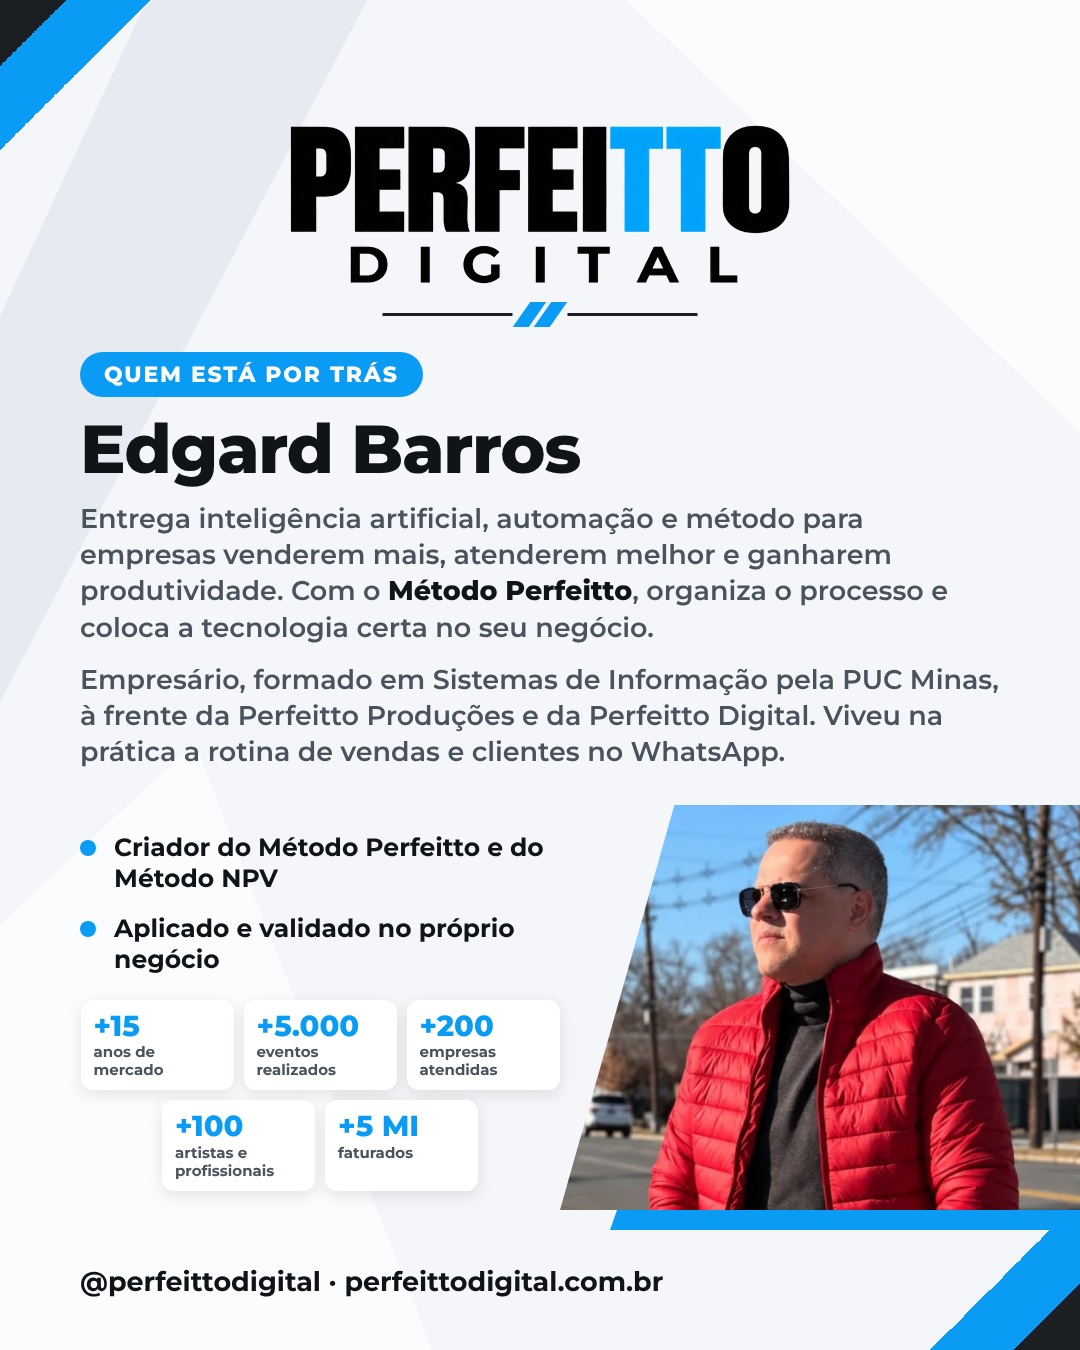
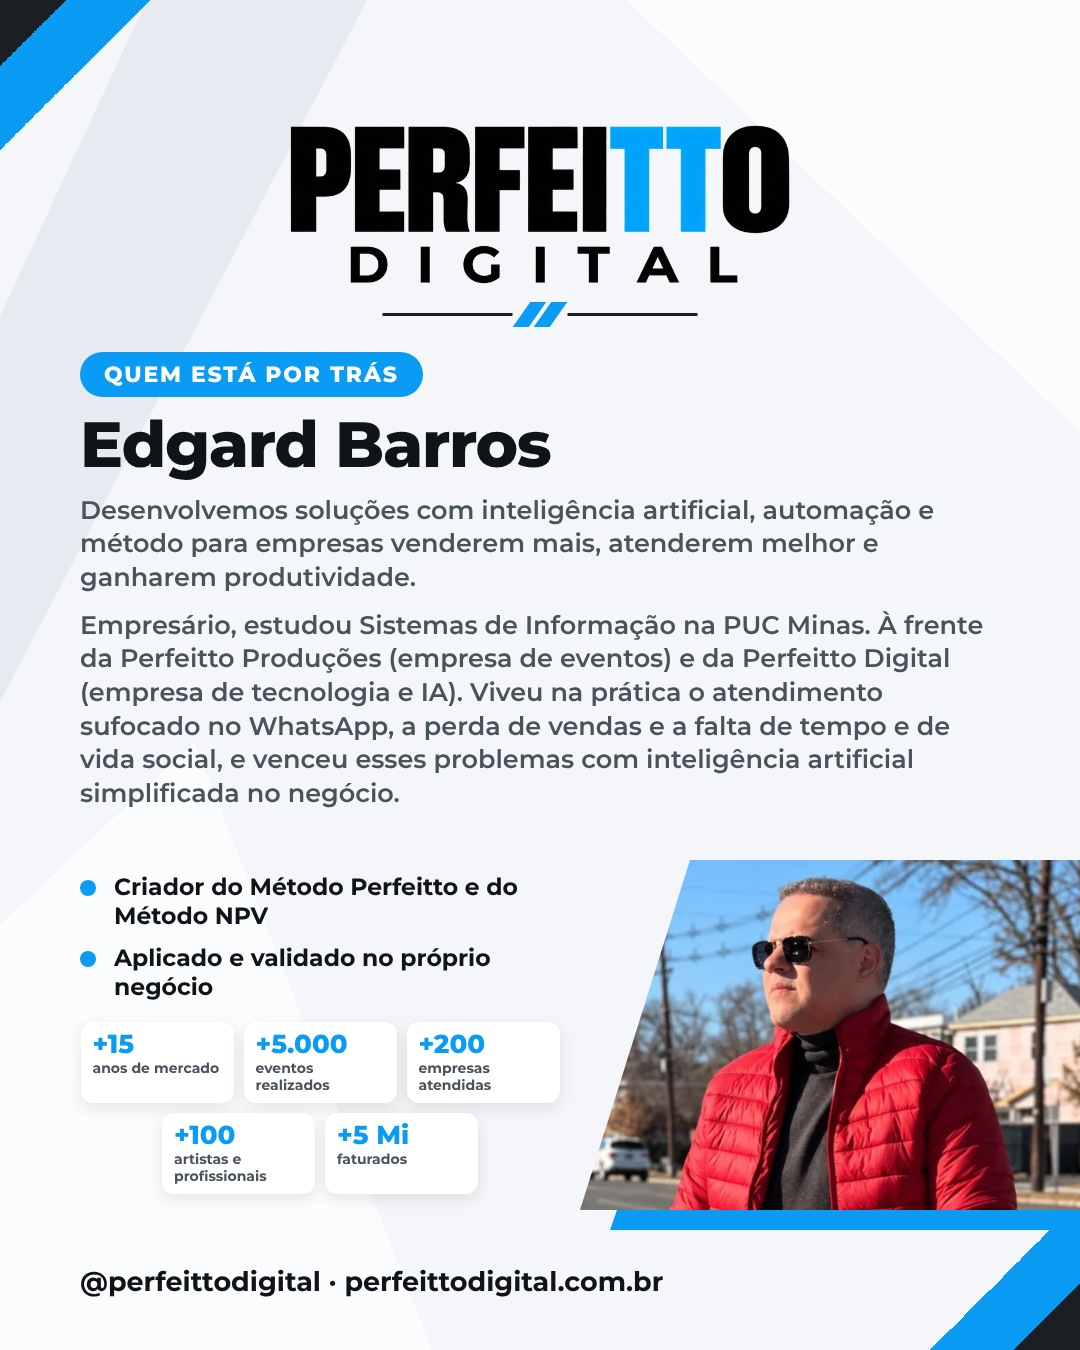
Post do Edgard: texto final, +5 Mi, sem 'formado'
Claude-Session: https://claude.ai/code/session_01T1Ti8ZtEU4qERFUHFc7H9r

Changed region(s): [[0.0611, 0.3111, 1.0, 0.9022], [0.0611, 0.6222, 0.5194, 0.8711]]

diff --git a/sw.js b/sw.js
@@ -1,4 +1,4 @@
-var C='pdleads-v12',BASE=['assets/style.css?v=12','assets/slides.css?v=12','assets/app.js?v=12','assets/logo-preta.png','assets/icone-192.png','assets/qr-whatsapp.svg','img/equipe.jpg','assets/montserrat-latin-500-normal.woff2','assets/montserrat-latin-600-normal.woff2','assets/montserrat-latin-700-normal.woff2','assets/montserrat-latin-800-normal.woff2'];
+var C='pdleads-v13',BASE=['assets/style.css?v=13','assets/slides.css?v=13','assets/app.js?v=13','assets/logo-preta.png','assets/icone-192.png','assets/qr-whatsapp.svg','img/equipe.jpg','assets/montserrat-latin-500-normal.woff2','assets/montserrat-latin-600-normal.woff2','assets/montserrat-latin-700-normal.woff2','assets/montserrat-latin-800-normal.woff2'];
 self.addEventListener('install',function(e){e.waitUntil(caches.open(C).then(function(c){return c.addAll(BASE)}).then(function(){return self.skipWaiting()}))});
 self.addEventListener('activate',function(e){e.waitUntil(caches.keys().then(function(k){return Promise.all(k.filter(function(x){return x!==C}).map(function(x){return caches.delete(x)}))}).then(function(){return self.clients.claim()}))});
 self.addEventListener('fetch',function(e){var r=e.request;if(r.method!=='GET')return;var u=new URL(r.url);if(u.origin!==location.origin)return;

diff --git a/instagram.php b/instagram.php
@@ -13,7 +13,7 @@ $posts = [
  ['post-10-metodo-perfeitto', 'Post 10 · Método Perfeitto', "Não sabe por onde começar? A gente vai junto.\n\nNo Método Perfeitto, primeiro entendemos o seu negócio, depois organizamos o processo e só então colocamos a tecnologia certa.\n\nAcompanho você, faço com você ou faço por você."],
  ['post-12-diagnostico-gratuito', 'Post 11 · Diagnóstico gratuito', "Um convite para você. 💙\n\nDiagnóstico gratuito de 15 minutos, pelo WhatsApp: a gente mostra onde a inteligência artificial pode devolver tempo e vendas ao seu negócio. Sem compromisso.\n\nChama no link da bio."],
 ];
-if (file_exists(__DIR__ . '/insta/post-11-edgard-barros.jpg')) array_splice($posts, 10, 0, [['post-11-edgard-barros', 'Post · Edgard Barros', "Prazer, Edgard Barros. 👋\n\nSou empresário, formado em Sistemas de Informação, e estou à frente da Perfeitto Produções e da Perfeitto Digital. São mais de 15 anos de mercado, mais de 5.000 eventos realizados, mais de 200 empresas atendidas e mais de R$ 5 milhões faturados. Dessa experiência nasceu o Método Perfeitto: inteligência, processo e automação, nessa ordem. Nesse caminho aprendi que o pequeno negócio não precisa de mais trabalho. Precisa de processo e de tecnologia do lado dele.\n\nÉ isso que a gente entrega aqui. Segue o perfil e vem comigo."]]);
+if (file_exists(__DIR__ . '/insta/post-11-edgard-barros.jpg')) array_splice($posts, 10, 0, [['post-11-edgard-barros', 'Post · Edgard Barros', "Prazer, Edgard Barros. 👋\n\nSou empresário, estudei Sistemas de Informação na PUC Minas e estou à frente da Perfeitto Produções e da Perfeitto Digital. São mais de 15 anos de mercado, mais de 5.000 eventos realizados, mais de 200 empresas atendidas e mais de R$ 5 milhões faturados. Dessa experiência nasceu o Método Perfeitto: inteligência, processo e automação, nessa ordem. Nesse caminho aprendi que o pequeno negócio não precisa de mais trabalho. Precisa de processo e de tecnologia do lado dele.\n\nÉ isso que a gente entrega aqui. Segue o perfil e vem comigo."]]);
 $perfil = [['avatar-instagram', 'Foto de perfil do Instagram'], ['avatar-whatsapp', 'Foto de perfil do WhatsApp'], ['avatar-escuro-alternativo', 'Foto de perfil, versão escura'], ['capa-destaque-solucoes', 'Capa de destaque · Soluções'], ['capa-destaque-quem-somos', 'Capa de destaque · Quem somos'], ['capa-destaque-diagnostico', 'Capa de destaque · Diagnóstico'], ['capa-destaque-eventos', 'Capa de destaque · Eventos'], ['capa-destaque-dicas', 'Capa de destaque · Dicas']];
 $stories = [['story-quem-somos.mp4', 'Story e Reels · Quem somos'], ['story-ia-no-dia-a-dia.mp4', 'Story e Reels · IA no dia a dia']];
 ?>

diff --git a/lib.php b/lib.php
@@ -5,7 +5,7 @@ mb_internal_encoding('UTF-8');
 date_default_timezone_set('America/Sao_Paulo');
 define('DADOS', dirname(__DIR__) . '/dados-leads');
 define('EVENTO', 'Vetor Norte Summit');
-define('V', '12');
+define('V', '13');
 if (!is_dir(DADOS)) { @mkdir(DADOS, 0750, true); @file_put_contents(DADOS . '/.htaccess', "Require all denied\n"); }
 if (!is_dir(DADOS . '/sessoes')) @mkdir(DADOS . '/sessoes', 0750, true);
 $https = (!empty($_SERVER['HTTPS']) && $_SERVER['HTTPS'] !== 'off') || ($_SERVER['HTTP_X_FORWARDED_PROTO'] ?? '') === 'https';
